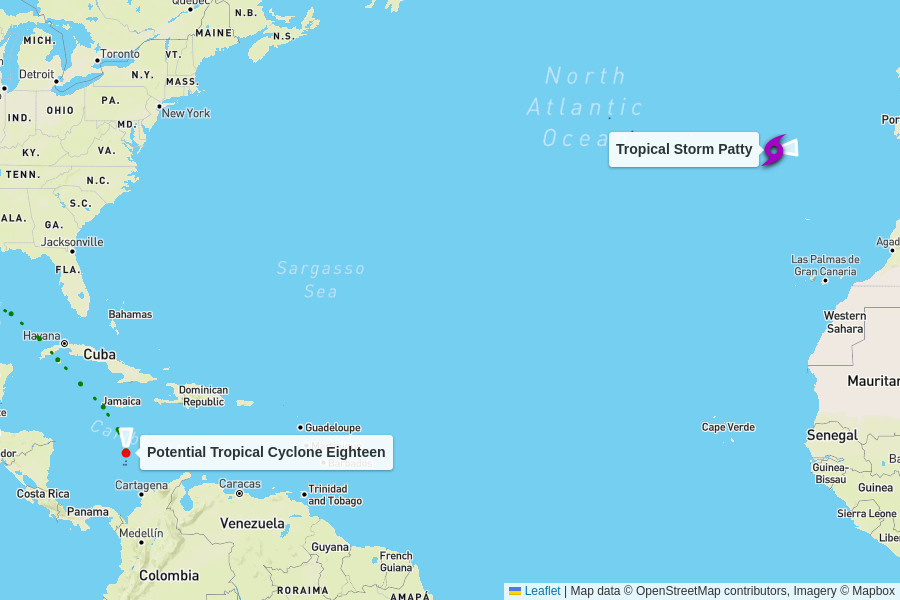
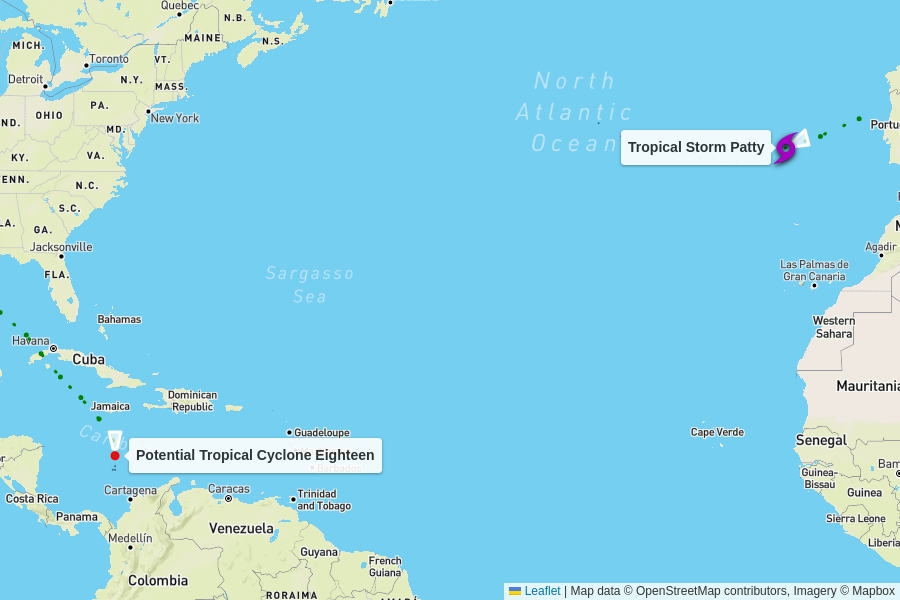
automatic update

diff --git a/docs/index.html b/docs/index.html
@@ -103,8 +103,52 @@
       <tr>
         <td colspan="6" class="storm category-0" >
           <h2>
+            Tropical Storm Patty
+            <p class="updated">last updated <span data-time>2024-11-04T09:00:00.000Z</span></p>
+          </h2>
+        </td>
+      </tr>
+      
+      <tr>
+        <th class="spacer"></th>
+        <th>wind speed</th>
+        <th>central pressure</th>
+        <th>movement</th>
+        <th>data (CSV)</th>
+        <th>National Hurricane Center</th>
+      </tr>
+      <tr>
+        <td class="spacer"></td>
+        <td>40 mph<br>-5 mph since last update</td>
+        <td>996 mb<br>+3 mb since last update</td>
+        <td>
+          20 mph to the east-northeast
+          <br/>
+          <span style="display: inline-block; font-size: 1.5em; transform: rotate(70deg);">↑</span>
+        </td>
+        <td><a href="https://raw.githubusercontent.com/mgwalker/atlantic-hurricanes/main/data/csv/AL172024.csv">AL172024.csv</a></td>
+        <td><a href="https://www.nhc.noaa.gov/archive/2024/PATTY.shtml?">NHC advisories</a></td>
+      </tr>
+      <tr id="storm_AL172024" >
+        <td class="spacer">
+        <td colspan="5">
+          <figure>
+            <img src="AL172024.png">
+            <figcaption>
+              Map data &copy; <a href="https://www.openstreetmap.org/copyright">OpenStreetMap</a> contributors,
+              Imagery &copy; <a href="https://www.mapbox.com/">Mapbox</a> |
+              <a href="https://www.mapbox.com/map-feedback/" target="_blank">Improve this map</a>
+            </figcaption>
+          </figure>
+        </td>
+      </tr>
+      
+
+      <tr>
+        <td colspan="6" class="storm category-0" >
+          <h2>
             Potential Tropical Cyclone Eighteen
-            <p class="updated">last updated <span data-time>2024-11-04T06:00:00.000Z</span></p>
+            <p class="updated">last updated <span data-time>2024-11-04T09:00:00.000Z</span></p>
           </h2>
         </td>
       </tr>
@@ -122,7 +166,7 @@
         <td>35 mph<br>0 mph since last update</td>
         <td>1004 mb<br>0 mb since last update</td>
         <td>
-          6 mph to the north
+          7 mph to the north
           <br/>
           <span style="display: inline-block; font-size: 1.5em; transform: rotate(360deg);">↑</span>
         </td>
@@ -134,50 +178,6 @@
         <td colspan="5">
           <figure>
             <img src="AL182024.png">
-            <figcaption>
-              Map data &copy; <a href="https://www.openstreetmap.org/copyright">OpenStreetMap</a> contributors,
-              Imagery &copy; <a href="https://www.mapbox.com/">Mapbox</a> |
-              <a href="https://www.mapbox.com/map-feedback/" target="_blank">Improve this map</a>
-            </figcaption>
-          </figure>
-        </td>
-      </tr>
-      
-
-      <tr>
-        <td colspan="6" class="storm category-0" >
-          <h2>
-            Tropical Storm Patty
-            <p class="updated">last updated <span data-time>2024-11-04T03:00:00.000Z</span></p>
-          </h2>
-        </td>
-      </tr>
-      
-      <tr>
-        <th class="spacer"></th>
-        <th>wind speed</th>
-        <th>central pressure</th>
-        <th>movement</th>
-        <th>data (CSV)</th>
-        <th>National Hurricane Center</th>
-      </tr>
-      <tr>
-        <td class="spacer"></td>
-        <td>45 mph<br>0 mph since last update</td>
-        <td>993 mb<br>+3 mb since last update</td>
-        <td>
-          20 mph to the east
-          <br/>
-          <span style="display: inline-block; font-size: 1.5em; transform: rotate(85deg);">↑</span>
-        </td>
-        <td><a href="https://raw.githubusercontent.com/mgwalker/atlantic-hurricanes/main/data/csv/AL172024.csv">AL172024.csv</a></td>
-        <td><a href="https://www.nhc.noaa.gov/archive/2024/PATTY.shtml?">NHC advisories</a></td>
-      </tr>
-      <tr id="storm_AL172024" >
-        <td class="spacer">
-        <td colspan="5">
-          <figure>
-            <img src="AL172024.png">
             <figcaption>
               Map data &copy; <a href="https://www.openstreetmap.org/copyright">OpenStreetMap</a> contributors,
               Imagery &copy; <a href="https://www.mapbox.com/">Mapbox</a> |
